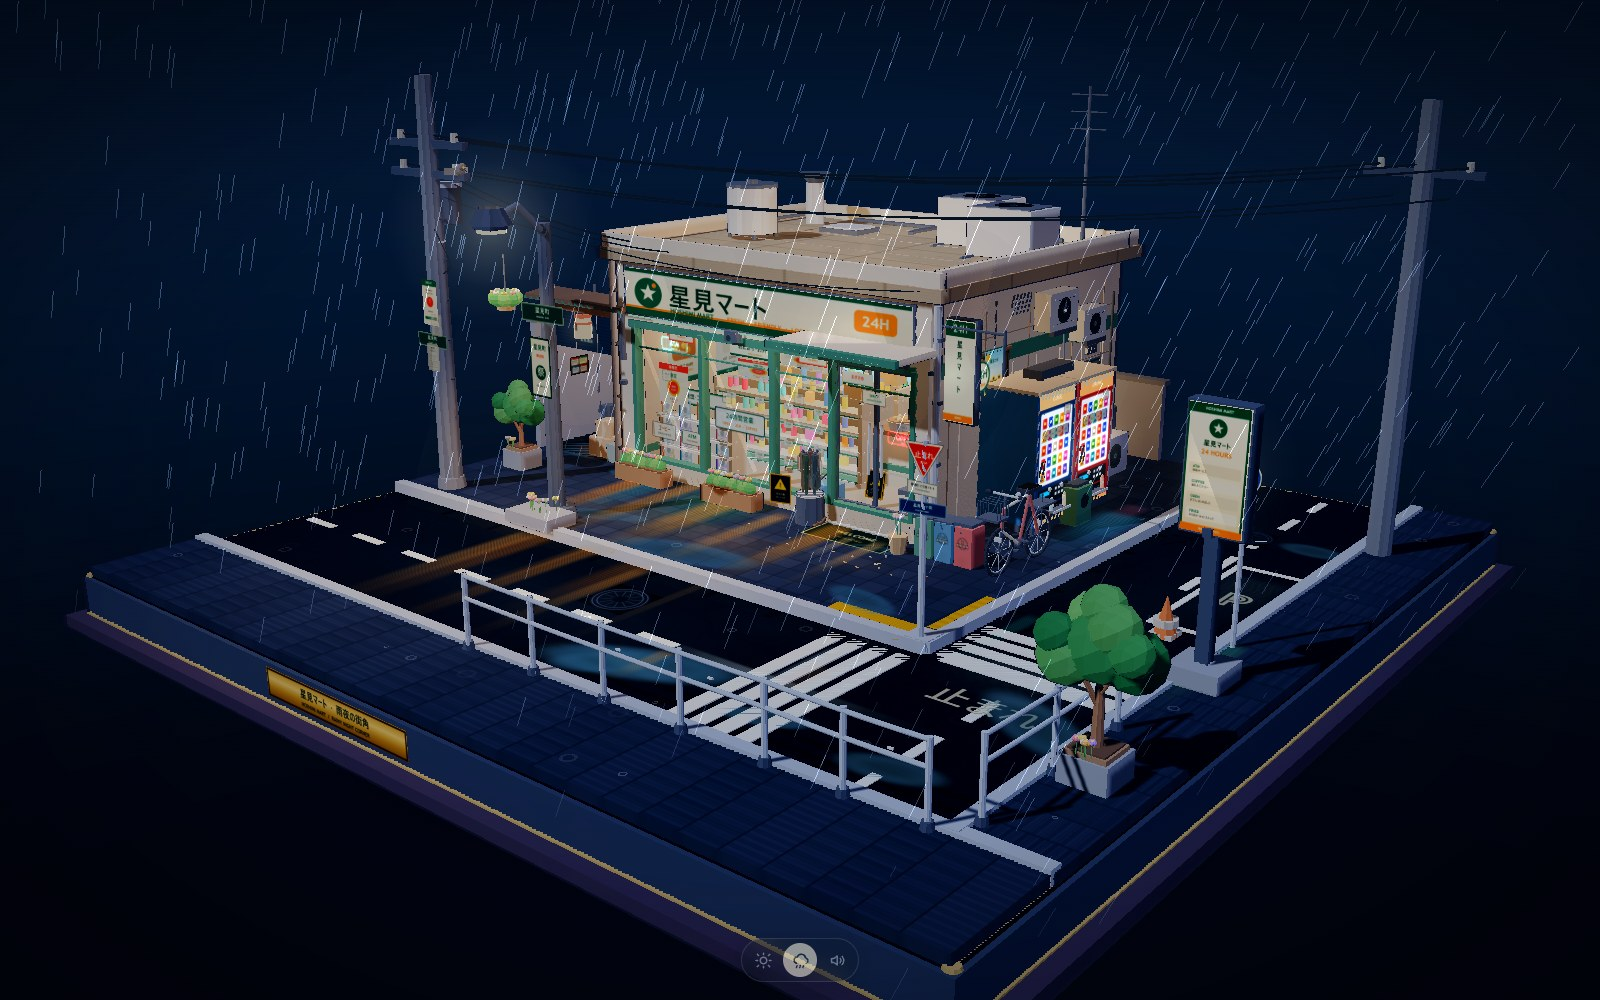
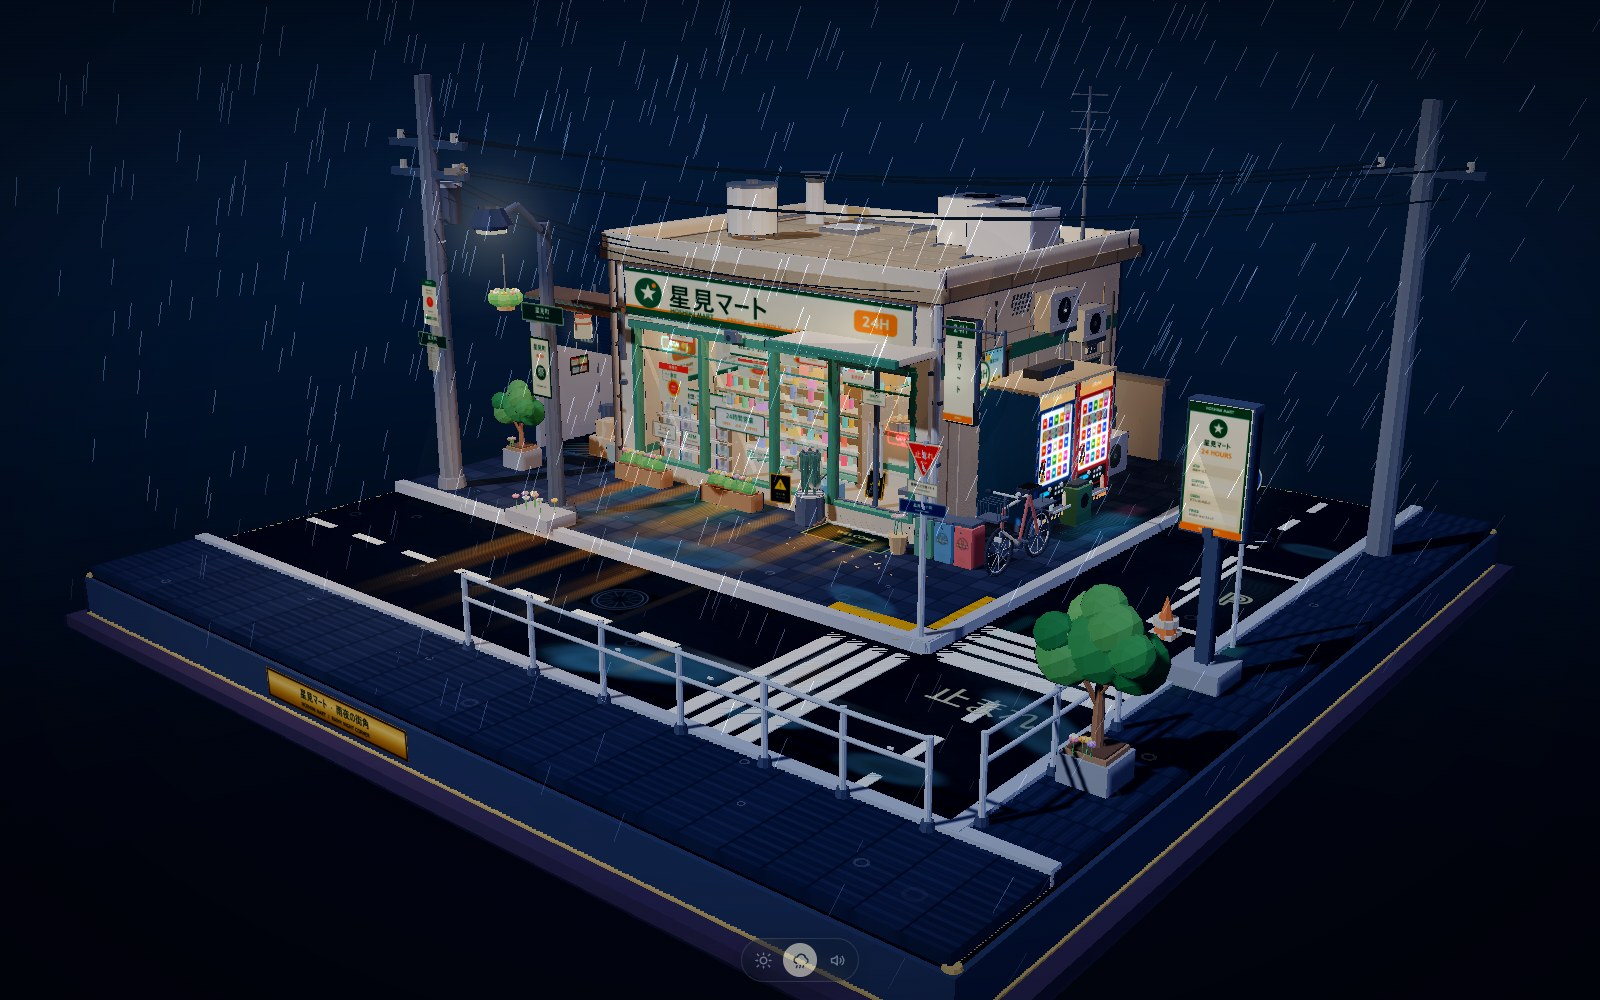
Restore original green umbrella look and add ambient motion

diff --git a/index.html b/index.html
@@ -6538,6 +6538,7 @@ for (let i = 0; i < 4; i++) {
 }
 
 // festival bunting above the alley gate
+const festivalFlags = [];
 {
   const points = [
     new THREE.Vector3(-6.55, SIDEWALK_TOP + 2.95, -0.94),
@@ -6563,6 +6564,7 @@ for (let i = 0; i < 4; i++) {
     flag.position.y -= 0.02;
     flag.rotation.z = 0.06 * Math.sin(i * 2.1);
     sunnyDecor.add(flag);
+    festivalFlags.push({ flag, baseZ: flag.rotation.z, phase: i * 1.3 });
   }
 }
 
@@ -8004,13 +8006,8 @@ const UMBRELLA_UP = new THREE.Vector3(0, 1, 0);
 // Muted, low-saturation palette inspired by Japanese vinyl umbrellas: slate
 // blue, ink green, warm gray, muted wine and oat. Same material family, only
 // the cloth hue changes slightly so the rack still reads as one set.
-const UMBRELLA_PALETTE = [
-  0x40525f,
-  0x3e5348,
-  0x756f63,
-  0x68464a,
-  0xb4ada0,
-];
+const UMBRELLA_LEGACY_GREEN = 0x2d4942;
+const UMBRELLA_LEGACY_RIM = 0xd9cfb4;
 
 const umbrellaFabricMap = canvasTexture(256, 256, (ctx, w, h) => {
   ctx.fillStyle = '#e8e5dd';
@@ -8050,26 +8047,22 @@ function addUmbrellaSheen(material) {
   return material;
 }
 
-function makeUmbrellaCanopyMaterial(index) {
-  const color = new THREE.Color(UMBRELLA_PALETTE[index % UMBRELLA_PALETTE.length]);
+function makeUmbrellaCanopyMaterial() {
   const material = new THREE.MeshToonMaterial({
-    color,
+    color: 0xffffff,
     gradientMap: TOON_RAMP,
     vertexColors: true,
     side: THREE.DoubleSide,
     skinning: true,
-    map: umbrellaFabricMap,
   });
   return addUmbrellaSheen(material);
 }
 
-function makeUmbrellaWrapMaterial(index) {
-  const color = new THREE.Color(UMBRELLA_PALETTE[index % UMBRELLA_PALETTE.length]).multiplyScalar(0.82);
+function makeUmbrellaWrapMaterial() {
   const material = new THREE.MeshToonMaterial({
-    color,
+    color: UMBRELLA_LEGACY_GREEN,
     gradientMap: TOON_RAMP,
     side: THREE.DoubleSide,
-    map: umbrellaFabricMap,
   });
   return addUmbrellaSheen(material);
 }
@@ -8093,7 +8086,7 @@ const umbrellaStrapGeometry = new THREE.TorusGeometry(0.047, 0.006, 5, 14);
 const umbrellaBuckleGeometry = new THREE.BoxGeometry(0.022, 0.03, 0.016);
 const umbrellaStrapMaterial = toon(0xcbbf9d, { side: THREE.DoubleSide });
 const umbrellaBuckleMaterial = basic(0x6f5c45);
-const umbrellaRibMaterial = toon(0x8d897d, { soft: true });
+const umbrellaRibMaterial = M.metalDark;
 const umbrellaGripGeometry = new THREE.CylinderGeometry(0.019, 0.021, 0.22, 10);
 const umbrellaGripCapGeometry = new THREE.SphereGeometry(0.021, 9, 7);
 const umbrellaGripMaterial = toon(0x4b382b, { soft: true });
@@ -8154,9 +8147,9 @@ const umbrellaCanopySkinIndices = [];
 const umbrellaCanopySkinWeights = [];
 const umbrellaCanopyIndices = [];
 {
-  const core = new THREE.Color(0.86, 0.86, 0.83);
-  const cloth = new THREE.Color(0.99, 0.99, 0.96);
-  const rim = new THREE.Color(1.24, 1.18, 1.04);
+  const core = new THREE.Color(UMBRELLA_LEGACY_GREEN);
+  const cloth = new THREE.Color(UMBRELLA_LEGACY_GREEN);
+  const rim = new THREE.Color(UMBRELLA_LEGACY_RIM);
   umbrellaCanopyPositions.push(0, UMBRELLA_HUB_Y, 0);
   umbrellaCanopyColors.push(core.r, core.g, core.b);
   umbrellaCanopyUvs.push(0.5, 0.5);
@@ -8237,7 +8230,7 @@ umbrellaSeamGeometry.setAttribute('skinWeight', new THREE.Float32BufferAttribute
 umbrellaSeamGeometry.setIndex(umbrellaSeamIndices);
 umbrellaSeamGeometry.computeVertexNormals();
 const umbrellaSeamMaterial = new THREE.MeshToonMaterial({
-  color: 0x555b52,
+  color: 0x263d38,
   gradientMap: TOON_RAMP,
   side: THREE.DoubleSide,
   skinning: true,
@@ -10620,6 +10613,18 @@ function updateDetailInteractions(dt, t) {
   detailSunny.visible = weatherMix > 0.34;
   detailRain.visible = weatherMix < 0.34;
   aFrameGroup.visible = detailSunny.visible;
+
+  cloudSprites.forEach((sprite, i) => {
+    if (sprite.userData.detailBaseX === undefined) {
+      sprite.userData.detailBaseX = sprite.position.x;
+      sprite.userData.detailBaseY = sprite.position.y;
+    }
+    sprite.position.x = sprite.userData.detailBaseX + Math.sin(t * 0.028 + i * 1.4) * 0.55;
+    sprite.position.y = sprite.userData.detailBaseY + Math.sin(t * 0.021 + i * 2.1) * 0.18;
+  });
+  festivalFlags.forEach(({ flag, baseZ, phase }) => {
+    flag.rotation.z = baseZ + Math.sin(t * 1.15 + phase) * 0.045;
+  });
 
   const signHalo = 0.028 + weatherMix * 0.018 + (1 - weatherMix) * 0.075;
   detailSignHaloMat.opacity = signHalo;

diff --git a/src/main.js b/src/main.js
@@ -4350,6 +4350,7 @@ for (let i = 0; i < 4; i++) {
 }
 
 // festival bunting above the alley gate
+const festivalFlags = [];
 {
   const points = [
     new THREE.Vector3(-6.55, SIDEWALK_TOP + 2.95, -0.94),
@@ -4375,6 +4376,7 @@ for (let i = 0; i < 4; i++) {
     flag.position.y -= 0.02;
     flag.rotation.z = 0.06 * Math.sin(i * 2.1);
     sunnyDecor.add(flag);
+    festivalFlags.push({ flag, baseZ: flag.rotation.z, phase: i * 1.3 });
   }
 }
 
@@ -5816,13 +5818,8 @@ const UMBRELLA_UP = new THREE.Vector3(0, 1, 0);
 // Muted, low-saturation palette inspired by Japanese vinyl umbrellas: slate
 // blue, ink green, warm gray, muted wine and oat. Same material family, only
 // the cloth hue changes slightly so the rack still reads as one set.
-const UMBRELLA_PALETTE = [
-  0x40525f,
-  0x3e5348,
-  0x756f63,
-  0x68464a,
-  0xb4ada0,
-];
+const UMBRELLA_LEGACY_GREEN = 0x2d4942;
+const UMBRELLA_LEGACY_RIM = 0xd9cfb4;
 
 const umbrellaFabricMap = canvasTexture(256, 256, (ctx, w, h) => {
   ctx.fillStyle = '#e8e5dd';
@@ -5862,26 +5859,22 @@ function addUmbrellaSheen(material) {
   return material;
 }
 
-function makeUmbrellaCanopyMaterial(index) {
-  const color = new THREE.Color(UMBRELLA_PALETTE[index % UMBRELLA_PALETTE.length]);
+function makeUmbrellaCanopyMaterial() {
   const material = new THREE.MeshToonMaterial({
-    color,
+    color: 0xffffff,
     gradientMap: TOON_RAMP,
     vertexColors: true,
     side: THREE.DoubleSide,
     skinning: true,
-    map: umbrellaFabricMap,
   });
   return addUmbrellaSheen(material);
 }
 
-function makeUmbrellaWrapMaterial(index) {
-  const color = new THREE.Color(UMBRELLA_PALETTE[index % UMBRELLA_PALETTE.length]).multiplyScalar(0.82);
+function makeUmbrellaWrapMaterial() {
   const material = new THREE.MeshToonMaterial({
-    color,
+    color: UMBRELLA_LEGACY_GREEN,
     gradientMap: TOON_RAMP,
     side: THREE.DoubleSide,
-    map: umbrellaFabricMap,
   });
   return addUmbrellaSheen(material);
 }
@@ -5905,7 +5898,7 @@ const umbrellaStrapGeometry = new THREE.TorusGeometry(0.047, 0.006, 5, 14);
 const umbrellaBuckleGeometry = new THREE.BoxGeometry(0.022, 0.03, 0.016);
 const umbrellaStrapMaterial = toon(0xcbbf9d, { side: THREE.DoubleSide });
 const umbrellaBuckleMaterial = basic(0x6f5c45);
-const umbrellaRibMaterial = toon(0x8d897d, { soft: true });
+const umbrellaRibMaterial = M.metalDark;
 const umbrellaGripGeometry = new THREE.CylinderGeometry(0.019, 0.021, 0.22, 10);
 const umbrellaGripCapGeometry = new THREE.SphereGeometry(0.021, 9, 7);
 const umbrellaGripMaterial = toon(0x4b382b, { soft: true });
@@ -5966,9 +5959,9 @@ const umbrellaCanopySkinIndices = [];
 const umbrellaCanopySkinWeights = [];
 const umbrellaCanopyIndices = [];
 {
-  const core = new THREE.Color(0.86, 0.86, 0.83);
-  const cloth = new THREE.Color(0.99, 0.99, 0.96);
-  const rim = new THREE.Color(1.24, 1.18, 1.04);
+  const core = new THREE.Color(UMBRELLA_LEGACY_GREEN);
+  const cloth = new THREE.Color(UMBRELLA_LEGACY_GREEN);
+  const rim = new THREE.Color(UMBRELLA_LEGACY_RIM);
   umbrellaCanopyPositions.push(0, UMBRELLA_HUB_Y, 0);
   umbrellaCanopyColors.push(core.r, core.g, core.b);
   umbrellaCanopyUvs.push(0.5, 0.5);
@@ -6049,7 +6042,7 @@ umbrellaSeamGeometry.setAttribute('skinWeight', new THREE.Float32BufferAttribute
 umbrellaSeamGeometry.setIndex(umbrellaSeamIndices);
 umbrellaSeamGeometry.computeVertexNormals();
 const umbrellaSeamMaterial = new THREE.MeshToonMaterial({
-  color: 0x555b52,
+  color: 0x263d38,
   gradientMap: TOON_RAMP,
   side: THREE.DoubleSide,
   skinning: true,
@@ -8432,6 +8425,18 @@ function updateDetailInteractions(dt, t) {
   detailSunny.visible = weatherMix > 0.34;
   detailRain.visible = weatherMix < 0.34;
   aFrameGroup.visible = detailSunny.visible;
+
+  cloudSprites.forEach((sprite, i) => {
+    if (sprite.userData.detailBaseX === undefined) {
+      sprite.userData.detailBaseX = sprite.position.x;
+      sprite.userData.detailBaseY = sprite.position.y;
+    }
+    sprite.position.x = sprite.userData.detailBaseX + Math.sin(t * 0.028 + i * 1.4) * 0.55;
+    sprite.position.y = sprite.userData.detailBaseY + Math.sin(t * 0.021 + i * 2.1) * 0.18;
+  });
+  festivalFlags.forEach(({ flag, baseZ, phase }) => {
+    flag.rotation.z = baseZ + Math.sin(t * 1.15 + phase) * 0.045;
+  });
 
   const signHalo = 0.028 + weatherMix * 0.018 + (1 - weatherMix) * 0.075;
   detailSignHaloMat.opacity = signHalo;

diff --git a/README.md b/README.md
@@ -40,7 +40,7 @@ python -m http.server 8765
 
 - **自动贩卖机**：点击机身后商品灯柔和亮起；机组下方的实体按键可按下回弹并发出机械声；底部托盘的 4 瓶饮料可点选，饮料轻轻上浮进入拾取状态，可拖到地面、窗台或自行车车篮；放进车篮后会跟随自行车，点击可放回原位。
 - **自行车**：点击车铃会抖动并发出真实老式金属车铃；按住车身可在安全范围短距离拖动，车轮同步转动，松手后平滑停下；雨夜拖动时后轮会留下浅浅水渍拖痕。
-- **雨伞架**：架内 **5 把完全同款的长柄日式雨伞**，参照 60 cm / 8 本骨长伞与 1:12 微缩伞的比例统一制作：收拢是带米色伞带与金属扣的细长伞身，撑开后伞面直径统一为 **1.0 个场景单位**。每把都有独立的一套 **8 根伞骨骨骼 + 中心根骨骼 + 蒙皮伞面**；取出一把后，伞骨带动伞面同步舒展/折叠，不会漂浮、塌陷或错位。五种颜色分别为低饱和深灰蓝、墨绿、暖灰、酒红与米白，统一使用细密布纹、柔和渐变和极轻的湿润边缘反光。架体增加了金属固定环、五个橡胶内衬夹口与径向支撑臂，五把伞垂直、等距插入，不倾斜、不互相穿插。点击伞架取出，晴天再点伞身撑开、再点收拢，雨夜取出自动撑开；拖回伞架或点击伞架会自动收拢并吸附回自己的槽位。开合速度、幅度和伞面尺寸五把完全一致。
+- **雨伞架**：架内 **5 把完全同款的长柄日式雨伞**，参照 60 cm / 8 本骨长伞与 1:12 微缩伞的比例统一制作：收拢是带米色伞带与金属扣的细长伞身，撑开后伞面直径统一为 **1.0 个场景单位**。每把都有独立的一套 **8 根伞骨骨骼 + 中心根骨骼 + 蒙皮伞面**；取出一把后，伞骨带动伞面同步舒展/折叠，不会漂浮、塌陷或错位。外观恢复首版偏爱的**深松绿色伞面 + 米色包边 + 深色细伞骨**，五把完全一致；保留后来增加的细金属伞骨、圆润手柄、米色伞带与金属扣。架体增加了金属固定环、五个橡胶内衬夹口与径向支撑臂，五把伞垂直、等距插入，不倾斜、不互相穿插。点击伞架取出，晴天再点伞身撑开、再点收拢，雨夜取出自动撑开；拖回伞架或点击伞架会自动收拢并吸附回自己的槽位。开合速度、幅度和伞面尺寸五把完全一致。
 - **自动门**：**只支持点击门体**：点击打开，再点一次关闭；镜头靠近或扫过不会触发。开关伴随柔和低沉的滑轨声，晴天开门时门口有暖光。
 - **树木/绿植**：点击树冠，叶片轻摆；晴天出现透过树叶的 Tyndall 光束，雨天则从叶片滴落雨滴。
 - **彩色气球**：气球连同细绳固定在自行车车篮上，自行车拖拽时整串同步移动；轻点气球或气球串会轻轻晃动并恢复；长按单个气球可拖拽，松手后随风缓慢浮动并回弹，气球之间会轻轻弹开，不会飘出底座。
@@ -79,7 +79,7 @@ python -m http.server 8765
 - [1:12 微缩 J 形手柄收拢伞](https://mforminiatures.com/products/dollhouse-supplies-miniature-umbrella-miniature-umbrella-miniature-umbrella-dollhouse-supplies-umbrella-f062)：参考微缩伞收拢后的细长形态与手柄比例。
 - [1:12 微缩伞面参考](https://mforminiatures.com/products/1-12-miniature-sun-umbrella-fabric-umbrella-lace-umbrella-1-inch-scale-miniature-umbrella-g053)：参考微缩伞面、伞骨密度与整体比例。
 
-最终 5 把雨伞共用 `1.0` 场景单位的伞面直径（半径 `0.5`）、8 根伞骨、同一套布纹/高光材质与同一开合节奏；仅布面颜色在低饱和日系色板内轻微区分。晴天使用带细伞骨投影的柔和贴地阴影，雨夜加入很轻的 Fresnel 湿润边缘反光。
+最终 5 把雨伞共用 `1.0` 场景单位的伞面直径（半径 `0.5`）、8 根伞骨、深松绿布面/米色包边、同一开合节奏与同一套结构；外观统一为首版偏爱的深绿色长柄伞。晴天使用带细伞骨投影的柔和贴地阴影，雨夜加入很轻的 Fresnel 湿润边缘反光。
 
 ### 街角细节与参考
 
